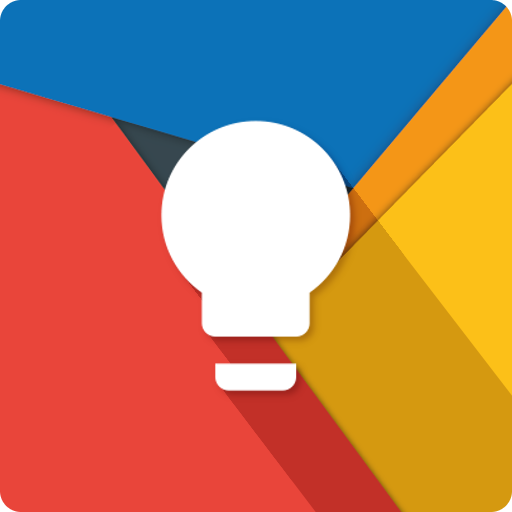
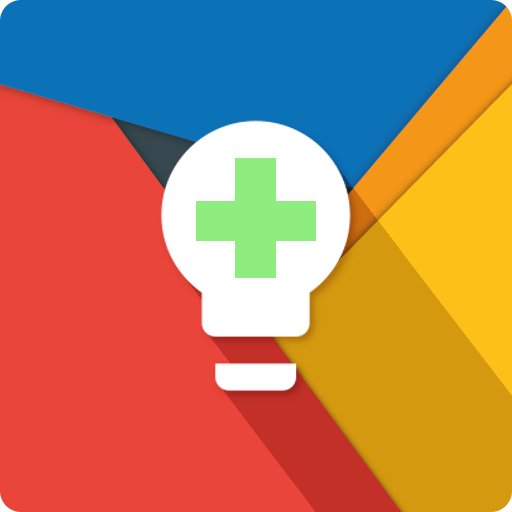
update documentation and graphics

Changed region(s): [[0.375, 0.2812, 0.625, 0.5625]]

diff --git a/README.md b/README.md
@@ -1,18 +1,21 @@
-<img src="https://raw.github.com/nserguier/IdeasTracker/master/graphics/feature_graphic.png" data-canonical-src="https://raw.github.com/nserguier/IdeasTracker/master/graphics/feature_graphic.png" width="512" height="250" />
+<img src="https://raw.github.com/IdeaTrackerPlus/IdeaTrackerPlus/master/graphics/feature_graphic.png" data-canonical-src="https://raw.github.com/IdeaTrackerPlus/IdeaTrackerPlus/master/graphics/feature_graphic.png" align="center" />
 
-# IdeasTrackerPlus: Projects & Tasks
+<div align = "center">
+    <h1>Idea Tracker Plus</h1>
+    <p>Idea tracking for the creative ones</p>
+    <a href="https://manparvesh.mit-license.org/" target="_blank"><img src="https://img.shields.io/badge/license-MIT-blue.svg" alt="License"></a>
+    <a href="https://github.com/IdeaTrackerPlus/IdeaTrackerPlus" target="_blank"><img src="http://forthebadge.com/badges/built-with-love.svg" alt="License"></a>
+    <a href="https://www.android.com/" target="_blank"><img src="https://img.shields.io/badge/Platform-Android-blue.svg" alt="License"></a>
+</div>
 
 > This is a clone of the [IdeasTracker app](https://github.com/nserguier/IdeasTracker) by [@nserguier](https://github.com/nserguier), with some optimizations, fixes and modifications by [@manparvesh](https://github.com/manparvesh).  
 
-<b>A TO-DO LIST FOR YOUR IDEAS:</b>
+<b>A To-Do list for your ideas:</b>
 
-IdeasTracker is an entirely free and open source idea, task and project management app helping you keep track of your great ideas. Almost like a To-Do list, but more relax: no annoying reminder, or big red “overdue task” notification.
+Idea Tracker Plus is a task and project management app that would help you keep track of your great ideas. It is almost like a To-Do list, but more specific for just your ideas: no annoying reminders, or big red “overdue task” notification.  
 Your ideas/tasks are clearly separated by project, no need for tags or filters, you can simply focus on one project at a time.
 
-![](https://raw.github.com/nserguier/IdeasTracker/master/graphics/showcase.png)
-
-The original app:
-<a href="https://play.google.com/store/apps/details?id=appbox.gameideas"><img alt="Get it on Google Play" src="https://play.google.com/intl/en_us/badges/images/apps/en-play-badge-border.png" width="300" /></a>
+![](https://raw.github.com/IdeaTrackerPlus/IdeaTrackerPlus/master/graphics/showcase.png)
 
 ## Help making the app better
 
@@ -28,14 +31,20 @@ The app has just been released so it's just the begining of its adventure. I nee
 
 ## Libraries used
 
-A big thank you to these awesome libraries and their developers, they are great tools to make better looking app and implement features easily in your code. Here are the ones I used for IdeasTracker:
+A big thank you to these awesome libraries and their developers, whose tools were used in the development of this application:
 
-AnimatedExpandableListView - https://github.com/idunnololz/AnimatedExpandableListView<br />
-AppIntro - https://github.com/PaoloRotolo/AppIntro<br />
-ListViewCellDeleteAnimation - https://github.com/paraches/ListViewCellDeleteAnimation<br />
-MaterialDrawer - https://github.com/mikepenz/MaterialDrawer<br />
-ShowCase - https://github.com/amlcurran/ShowcaseView<br />
-Spectrum - https://github.com/the-blue-alliance/spectrum<br />
-TinyDB - https://github.com/kcochibili/TinyDB--Android-Shared-Preferences-Turbo<br />
+- [AnimatedExpandableListView](https://github.com/idunnololz/AnimatedExpandableListView)
+- [AppIntro](https://github.com/PaoloRotolo/AppIntro)
+- [ListViewCellDeleteAnimation](https://github.com/paraches/ListViewCellDeleteAnimation)
+- [MaterialDrawer](https://github.com/mikepenz/MaterialDrawer)
+- [ShowCase](https://github.com/amlcurran/ShowcaseView)
+- [Spectrum](https://github.com/the-blue-alliance/spectrum)
+- [TinyDB](https://github.com/kcochibili/TinyDB--Android-Shared-Preferences-Turbo)
 
+### License
+[MIT](https://manparvesh.mit-license.org)
 
+---
+
+##### Feel free to check the original app on which this application is based:
+<a href="https://play.google.com/store/apps/details?id=appbox.gameideas"><img alt="Get it on Google Play" src="https://play.google.com/intl/en_us/badges/images/apps/en-play-badge-border.png" width="300" /></a>

diff --git a/.github/CONTRIBUTING.md b/.github/CONTRIBUTING.md
@@ -1,0 +1,37 @@
+
+# Contributing
+
+Firstly, thanks for taking the time to contribute! :grin:
+
+## What should I know before getting started?
+- Java
+- Basics of Android Development
+
+## How Can I Contribute?
+### Feature suggestions / bug reports
+You can contribute to this project by suggesting features or filing bugs by creating an issue [here](https://github.com/IdeaTrackerPlus/IdeaTrackerPlus/issues/new).
+### Writing code
+If you are interested in contributing by writing code, you can do so by fixing the bugs or implementing the features mentioned in [the issues](https://github.com/IdeaTrackerPlus/IdeaTrackerPlus/issues).  
+#### Setup
+ - [Install Android Studio](https://developer.android.com/studio/install.html).
+ - [Clone this repository](https://help.github.com/articles/cloning-a-repository/).
+ - Import the cloned project:
+   - File -> New -> Project from Version Control -> GitHub
+   - Enter your github username and password
+   - Select the repository and hit clone.
+ - [Run the app](https://developer.android.com/training/basics/firstapp/running-app.html)
+#### First contribution
+In case you are unsure about where to start, you can look at the `easy` and `medium` issues.
+- [easy issues](https://github.com/IdeaTrackerPlus/IdeaTrackerPlus/issues?q=is%3Aopen+is%3Aissue+label%3A%22difficulty%3A+easy%22) - do not require much work
+- [medium issues](https://github.com/IdeaTrackerPlus/IdeaTrackerPlus/issues?q=is%3Aissue+is%3Aopen+label%3A%22difficulty%3A+medium%22) - should be a bit more involved than `easy` issues.
+
+#### Sending a pull request
+Push to your fork and [submit a pull request](https://github.com/IdeaTrackerPlus/IdeaTrackerPlus/compare/). 
+
+## Github labels
+### Issue labels
+- Labels starting with `module: `: these specify the modules in which the changes / enhancements are to be made.
+- `bug`: it's a bug
+- `enhancement`: hacking on the existing code
+- Labels starting with `difficulty: `: specify the difficulty levels of the issue, depending on the work to be done to complete it.
+- `new feature`: new feature introduced

diff --git a/.github/ISSUE_TEMPLATE.md b/.github/ISSUE_TEMPLATE.md
@@ -1,0 +1,38 @@
+(Thanks for reporting an issue! Please make sure you click the link above to view the guidelines, then fill out the blanks below.)  
+(There are two templates. You can choose which one to use and delete the other one. Also, please remove the text in the brackets before you submit an issue)
+
+(For bug reporting)  
+What are the steps to reproduce this issue?
+-------------------------------------------
+1. …
+2. …
+3. …
+
+What happens?
+-------------
+…
+
+What were you expecting to happen?
+----------------------------------
+…
+
+What versions of software are you using?
+----------------------------------------
+**App version:** …
+
+(For feature suggestion)  
+Feature description:
+-------------------
+…
+
+Any ideas on how to implement it?
+---------------------------------
+…
+
+(common questions)  
+Any other comments?
+-------------------
+…
+Any feedback on the project?
+-------------------
+…

diff --git a/.github/PULL_REQUEST_TEMPLATE.md b/.github/PULL_REQUEST_TEMPLATE.md
@@ -1,0 +1,9 @@
+#### Short description of what this resolves:
+
+#### Changes proposed in this pull request:
+
+-
+-
+-
+
+**Fixes**: #
